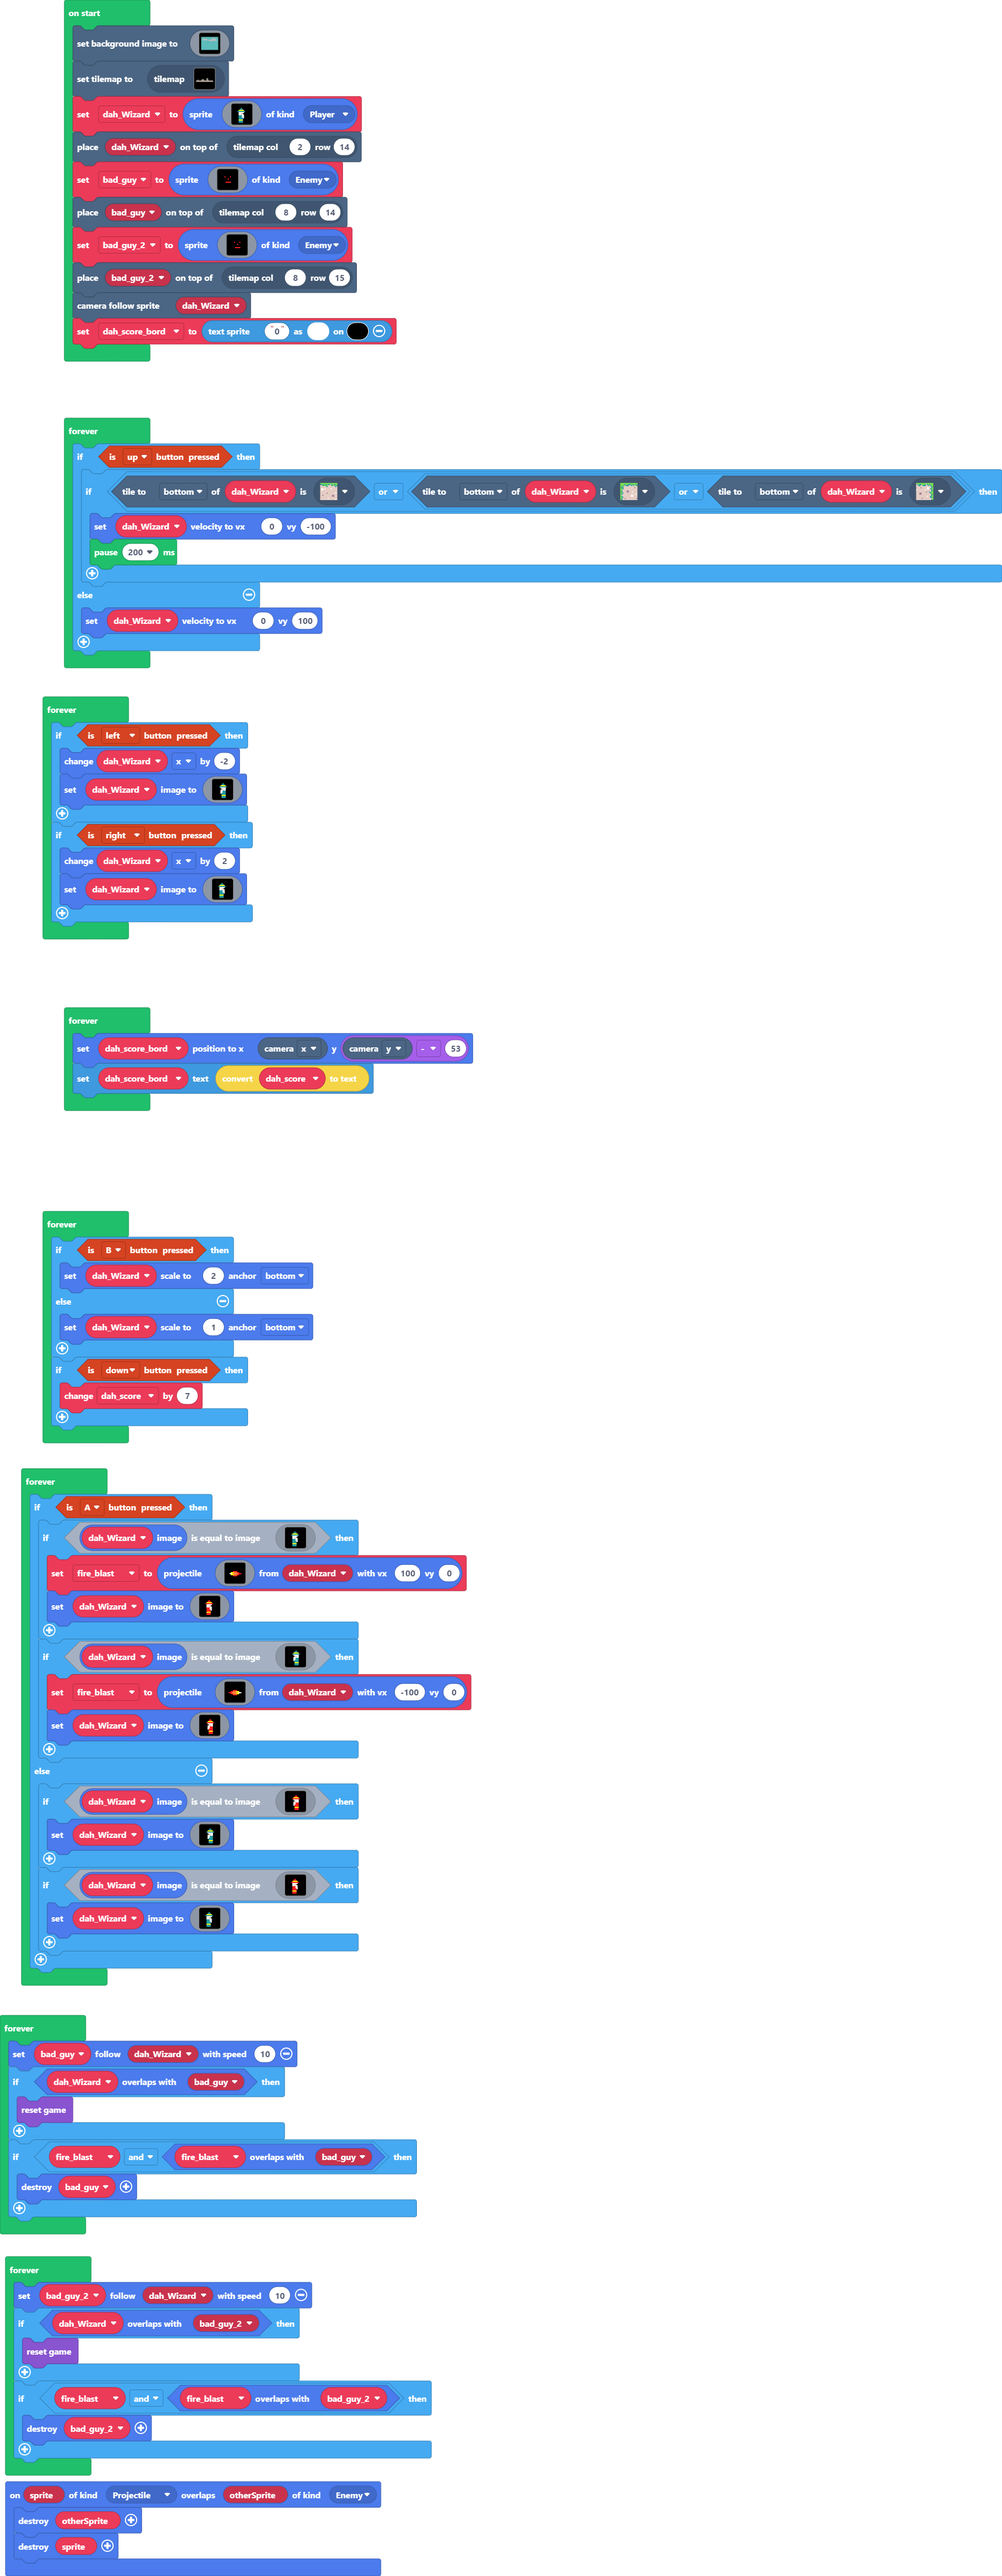
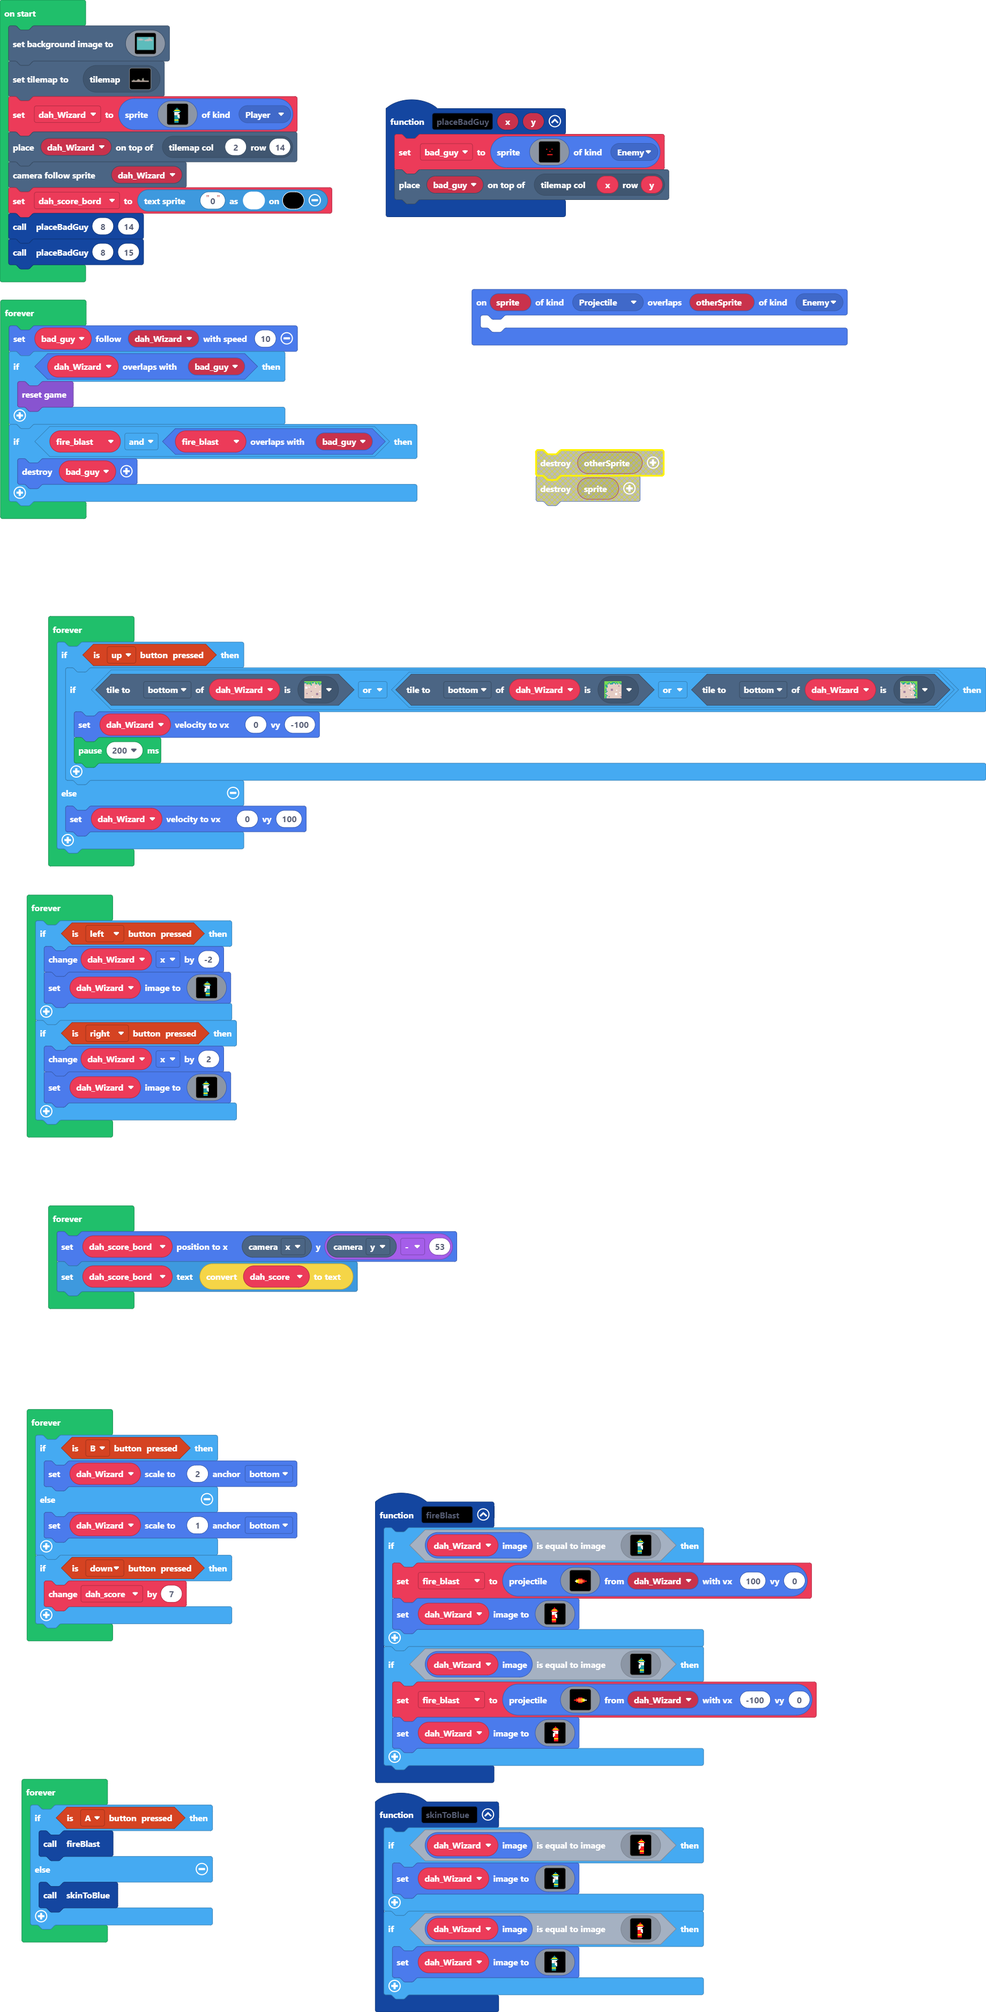
Update main.blocks, main.ts

diff --git a/main.ts b/main.ts
@@ -1,19 +1,49 @@
+function placeBadGuy (x: number, y: number) {
+    bad_guy = sprites.create(assets.image`bad guy`, SpriteKind.Enemy)
+    tiles.placeOnTile(bad_guy, tiles.getTileLocation(x, y))
+}
+function skinToBlue () {
+    if (dah_Wizard.image.equals(assets.image`dah Wizard red left`)) {
+        dah_Wizard.setImage(assets.image`dah Wizard left`)
+    }
+    if (dah_Wizard.image.equals(assets.image`dah Wizard red right`)) {
+        dah_Wizard.setImage(assets.image`dah Wizard right`)
+    }
+}
+function fireBlast () {
+    if (dah_Wizard.image.equals(assets.image`dah Wizard right`)) {
+        fire_blast = sprites.createProjectileFromSprite(assets.image`fire blast right`, dah_Wizard, 100, 0)
+        dah_Wizard.setImage(assets.image`dah Wizard red right`)
+    }
+    if (dah_Wizard.image.equals(assets.image`dah Wizard left`)) {
+        fire_blast = sprites.createProjectileFromSprite(assets.image`fire blast left`, dah_Wizard, -100, 0)
+        dah_Wizard.setImage(assets.image`dah Wizard red left`)
+    }
+}
 sprites.onOverlap(SpriteKind.Projectile, SpriteKind.Enemy, function (sprite, otherSprite) {
-    otherSprite.destroy()
-    sprite.destroy()
+	
 })
-let fire_blast: Sprite = null
 let dah_score = 0
+let fire_blast: Sprite = null
+let bad_guy: Sprite = null
+let dah_Wizard: Sprite = null
 scene.setBackgroundImage(assets.image`sus sky`)
 tiles.setCurrentTilemap(tilemap`level1`)
-let dah_Wizard = sprites.create(assets.image`dah Wizard right`, SpriteKind.Player)
+dah_Wizard = sprites.create(assets.image`dah Wizard right`, SpriteKind.Player)
 tiles.placeOnTile(dah_Wizard, tiles.getTileLocation(2, 14))
-let bad_guy = sprites.create(assets.image`bad guy`, SpriteKind.Enemy)
-tiles.placeOnTile(bad_guy, tiles.getTileLocation(8, 14))
-let bad_guy_2 = sprites.create(assets.image`bad guy`, SpriteKind.Enemy)
-tiles.placeOnTile(bad_guy_2, tiles.getTileLocation(8, 15))
 scene.cameraFollowSprite(dah_Wizard)
 let dah_score_bord = textsprite.create("0", 15, 1)
+placeBadGuy(8, 14)
+placeBadGuy(8, 15)
+forever(function () {
+    bad_guy.follow(dah_Wizard, 10)
+    if (dah_Wizard.overlapsWith(bad_guy)) {
+        game.reset()
+    }
+    if (fire_blast && fire_blast.overlapsWith(bad_guy)) {
+        bad_guy.destroy()
+    }
+})
 forever(function () {
     if (controller.up.isPressed()) {
         if (dah_Wizard.tileKindAt(TileDirection.Bottom, sprites.castle.tilePath2) || (dah_Wizard.tileKindAt(TileDirection.Bottom, sprites.castle.tilePath1) || dah_Wizard.tileKindAt(TileDirection.Bottom, sprites.castle.tilePath3))) {
@@ -50,38 +80,8 @@ forever(function () {
 })
 forever(function () {
     if (controller.A.isPressed()) {
-        if (dah_Wizard.image.equals(assets.image`dah Wizard right`)) {
-            fire_blast = sprites.createProjectileFromSprite(assets.image`fire blast right`, dah_Wizard, 100, 0)
-            dah_Wizard.setImage(assets.image`dah Wizard red right`)
-        }
-        if (dah_Wizard.image.equals(assets.image`dah Wizard left`)) {
-            fire_blast = sprites.createProjectileFromSprite(assets.image`fire blast left`, dah_Wizard, -100, 0)
-            dah_Wizard.setImage(assets.image`dah Wizard red left`)
-        }
+        fireBlast()
     } else {
-        if (dah_Wizard.image.equals(assets.image`dah Wizard red left`)) {
-            dah_Wizard.setImage(assets.image`dah Wizard left`)
-        }
-        if (dah_Wizard.image.equals(assets.image`dah Wizard red right`)) {
-            dah_Wizard.setImage(assets.image`dah Wizard right`)
-        }
-    }
-})
-forever(function () {
-    bad_guy.follow(dah_Wizard, 10)
-    if (dah_Wizard.overlapsWith(bad_guy)) {
-        game.reset()
-    }
-    if (fire_blast && fire_blast.overlapsWith(bad_guy)) {
-        bad_guy.destroy()
-    }
-})
-forever(function () {
-    bad_guy_2.follow(dah_Wizard, 10)
-    if (dah_Wizard.overlapsWith(bad_guy_2)) {
-        game.reset()
-    }
-    if (fire_blast && fire_blast.overlapsWith(bad_guy_2)) {
-        bad_guy_2.destroy()
+        skinToBlue()
     }
 })
